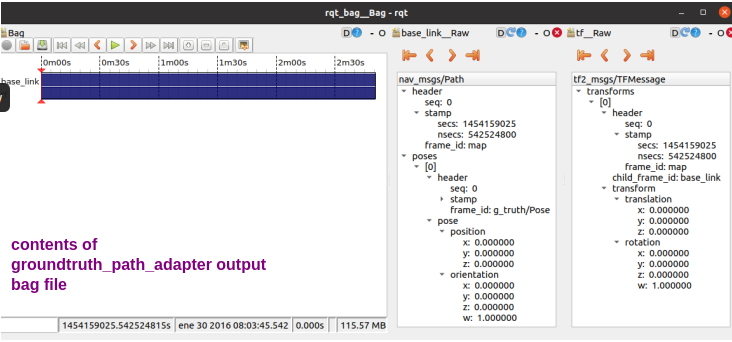
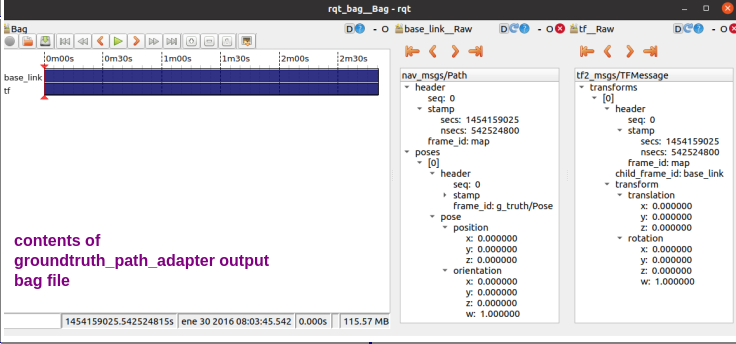
update gtruth readme

diff --git a/groundtruth_data_adapter/README.md b/groundtruth_data_adapter/README.md
@@ -18,14 +18,14 @@ The generated files contain the groundtruth data provided in the Robo@Home datas
 	
 	This script compiles the pose message data needed to create the odometry data with the odom_data_adapter node. The output bag does not contains
 	tf data or path message to visualize in rviz.
-	![GroundTruth Pose Data](gtruth_path_bag.png)
+	![GroundTruth Pose Data](gtruth_pose_bag.png)
 	
 2. groundtruth_path_adapter.py
 	
 	This script compiles the path message data neede to visualize the groundtruth path in rviz. The tf data can be changed by modifying lines 93, 97 of the code.
 	 In the example below two bags were compiled one with tf data from map to base_link to test laser data in rviz and the second one from map to gtruth/Path to 
 	 visualize the groundtruth when running the amcl. 
-	![GroundTruth Path Data](gtruth_pose_bag.png)
+	![GroundTruth Path Data](gtruth_path_bag.png)
 	![TF trees for gtruth path](gtruth_path_tftree_cases.png)
 
 For more specific details on the groundtruth_data_adapter please refer to section 5.3 of [file](https://github.com/fernandaroeg/ROS_AMCL_Hybrid_Localization/blob/master/TFM_Localizacion_Rodriguez_Fernanda.pdf)
